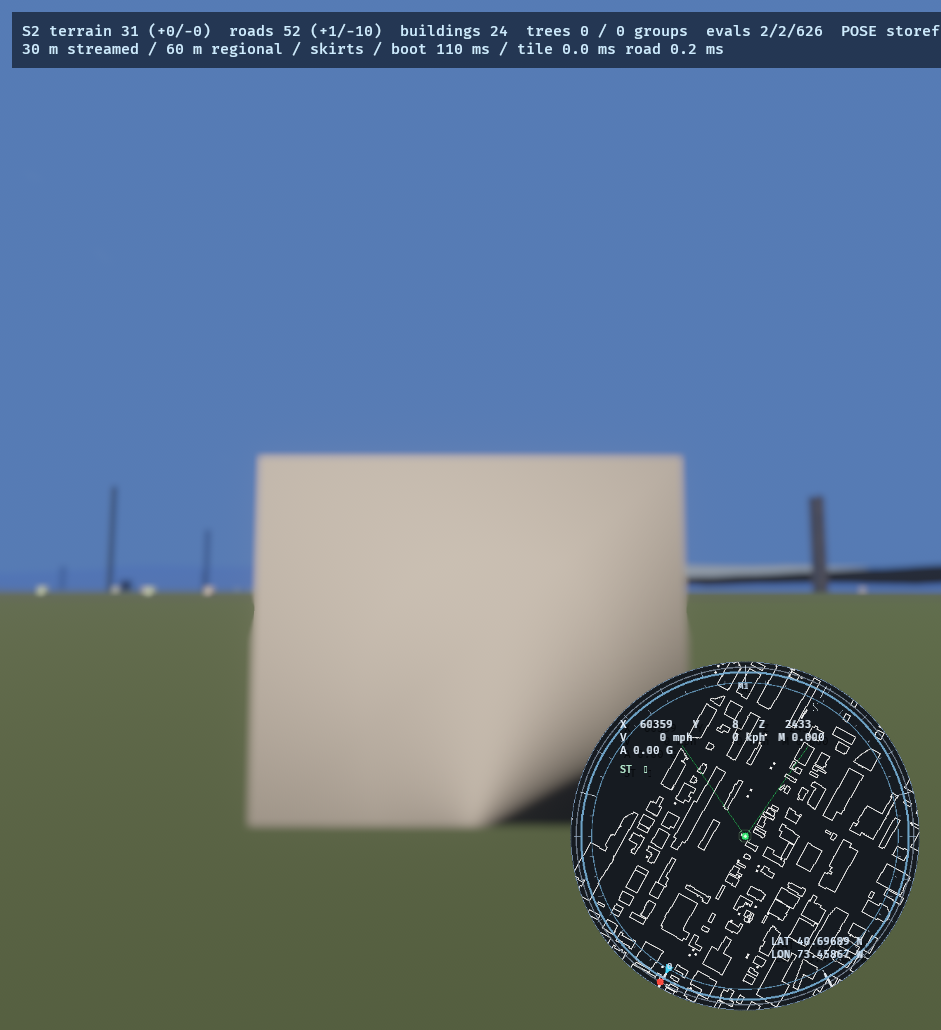
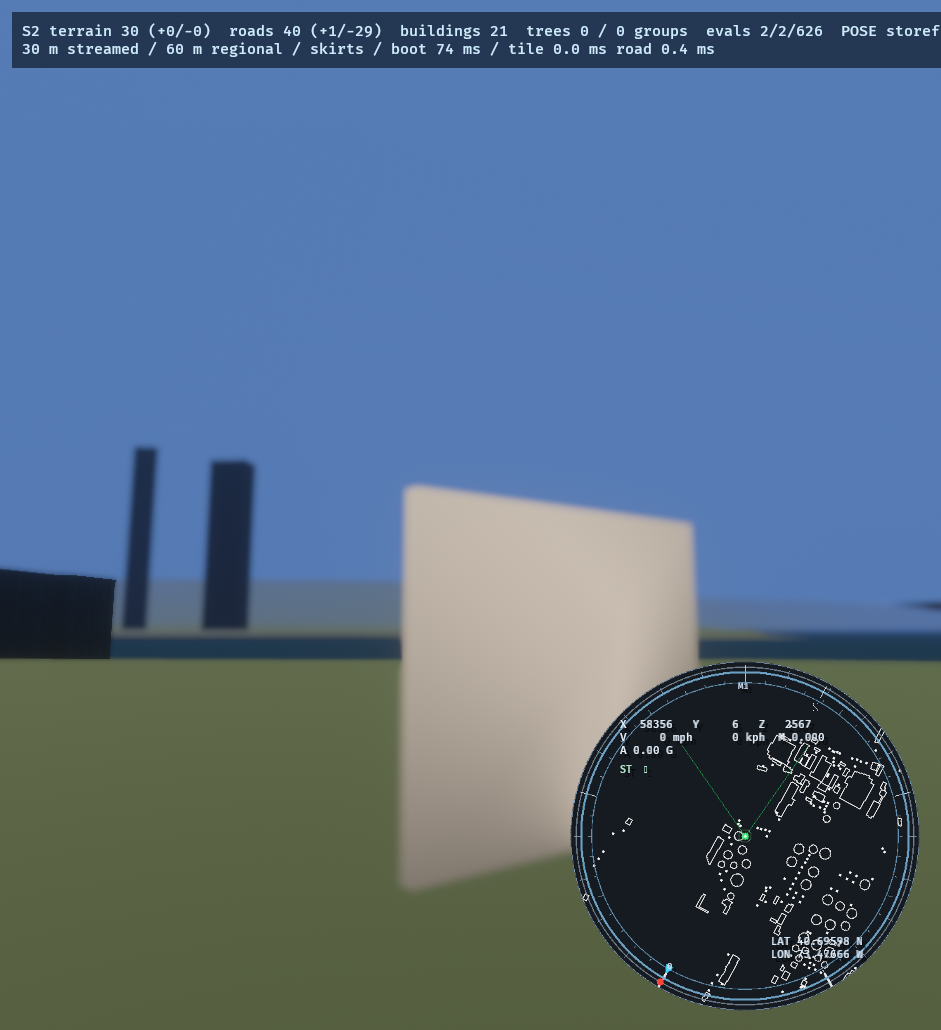
Storefronts: 45-degree derived frames, instance retries, light override
- Derived eye rotated 45 degrees off the face normal at 2.6 m, aiming past the
  prop into its host facade; instance retries (2nd/3rd placement per grammar)
  exercised; per-kind warming poses so SODO/residential chunks stream before
  selection.
- Capture-mode lighting override (fixed 22k directional light) as the
  documented workaround for the night-rendering sun path; props are lit, host
  facades still partly dark.
- Still not the gate: the Pike Place grammar's chosen prop lies in the
  Downtown 02 partition ~500 m from the market block (the mapping cell is not
  the market), so the frame is a generic downtown awning; no perf table; no
  tag.

Changed region(s): [[0.0, 0.435, 1.0, 0.9942], [0.4623, 0.0311, 0.7705, 0.0621]]

diff --git a/viewer/src/storefronts.rs b/viewer/src/storefronts.rs
@@ -536,11 +536,11 @@ struct StorefrontCaptureState {
     chosen: Vec<Placement>,
 }
 
-const CAPTURE_KINDS: [(u8, &str); 4] = [
-    (KIND_AWNING, "storefronts_pike_place"),
-    (KIND_COLONNADE, "storefronts_pioneer_square"),
-    (KIND_WAREHOUSE, "storefronts_sodo"),
-    (KIND_PLACARD, "storefronts_residential"),
+const CAPTURE_KINDS: [(u8, usize, &str); 4] = [
+    (KIND_AWNING, 1, "storefronts_pike_place"),
+    (KIND_COLONNADE, 1, "storefronts_pioneer_square"),
+    (KIND_WAREHOUSE, 0, "storefronts_sodo"),
+    (KIND_PLACARD, 1, "storefronts_residential"),
 ];
 
 /// Derived camera: pick a real placed prop, stand 18 m along its outward face
@@ -577,33 +577,50 @@ fn storefront_capture(world: &mut World) {
         weather.storm = 0.0;
         weather.snow = 0.0;
     }
-    let (kind, name) = CAPTURE_KINDS[index];
+    let (kind, instance, name) = CAPTURE_KINDS[index];
+    // Lighting override (documented workaround: capture-mode sun path renders
+    // night; the storefront gate is the subject, the sun path is queued).
+    {
+        let mut lights = world.query::<(&mut DirectionalLight, &mut Transform)>();
+        let rotation =
+            Quat::from_rotation_arc(Vec3::NEG_Z, Vec3::new(-0.45, -0.75, -0.35).normalize());
+        for (mut light, mut transform) in lights.iter_mut(world) {
+            light.illuminance = 22_000.0;
+            light.color = Color::srgb(1.0, 0.96, 0.9);
+            transform.rotation = rotation;
+        }
+    }
     if !entered {
         let chosen = world
             .resource::<PlacementIndex>()
             .by_kind
             .get(&kind)
-            .and_then(|list| list.first().copied());
+            .and_then(|list| {
+                list.get(instance.min(list.len().saturating_sub(1)))
+                    .copied()
+            });
         let Some(placement) = chosen else {
-            // Nothing streamed yet: park the camera at the market so the
-            // streamer has something to load, then wait.
+            // Nothing streamed for this kind yet: park the camera in that
+            // district so its chunks stream, then wait.
+            let (wx, wz) = match kind {
+                KIND_AWNING => (-440.0, -400.0),
+                KIND_COLONNADE => (250.0, 650.0),
+                KIND_WAREHOUSE => (400.0, 3600.0),
+                _ => (-3060.0, -6060.0),
+            };
             let ground = world
                 .resource::<crate::geology::Geology>()
                 .dem
-                .height(-440.0, -400.0);
+                .height(wx, wz);
             let mut staged = world.resource_mut::<crate::camera_authority::StagedPose>();
             crate::camera_authority::stage_look_at(
                 &mut staged,
                 "storefront_capture",
+                Vec3::new(crate::citypack::STREAM_WORLD_OFFSET + wx, ground + 6.0, wz),
                 Vec3::new(
-                    crate::citypack::STREAM_WORLD_OFFSET - 440.0,
-                    ground + 6.0,
-                    -400.0,
-                ),
-                Vec3::new(
-                    crate::citypack::STREAM_WORLD_OFFSET - 525.0,
+                    crate::citypack::STREAM_WORLD_OFFSET + wx + 80.0,
                     ground + 8.0,
-                    -400.0,
+                    wz - 60.0,
                 ),
                 "warming",
             );
@@ -615,15 +632,23 @@ fn storefront_capture(world: &mut World) {
             .height(placement.x, placement.z);
         let nx = placement.yaw.sin();
         let nz = placement.yaw.cos();
+        // 45 degrees along the facade: prop in the near third, host facade
+        // and district context behind it.
+        let (s45, c45) = (
+            std::f32::consts::FRAC_1_SQRT_2,
+            std::f32::consts::FRAC_1_SQRT_2,
+        );
+        let ex = nx * c45 - nz * s45;
+        let ez = nx * s45 + nz * c45;
         let eye = Vec3::new(
-            crate::citypack::STREAM_WORLD_OFFSET + placement.x + nx * 8.0,
+            crate::citypack::STREAM_WORLD_OFFSET + placement.x + ex * 9.0,
             ground + 2.6,
-            placement.z + nz * 8.0,
+            placement.z + ez * 9.0,
         );
         let look = Vec3::new(
-            crate::citypack::STREAM_WORLD_OFFSET + placement.x + nx * 2.0,
-            ground + 3.2,
-            placement.z + nz * 2.0,
+            crate::citypack::STREAM_WORLD_OFFSET + placement.x - nx * 2.0,
+            ground + 4.2,
+            placement.z - nz * 2.0,
         );
         {
             let mut staged = world.resource_mut::<crate::camera_authority::StagedPose>();
